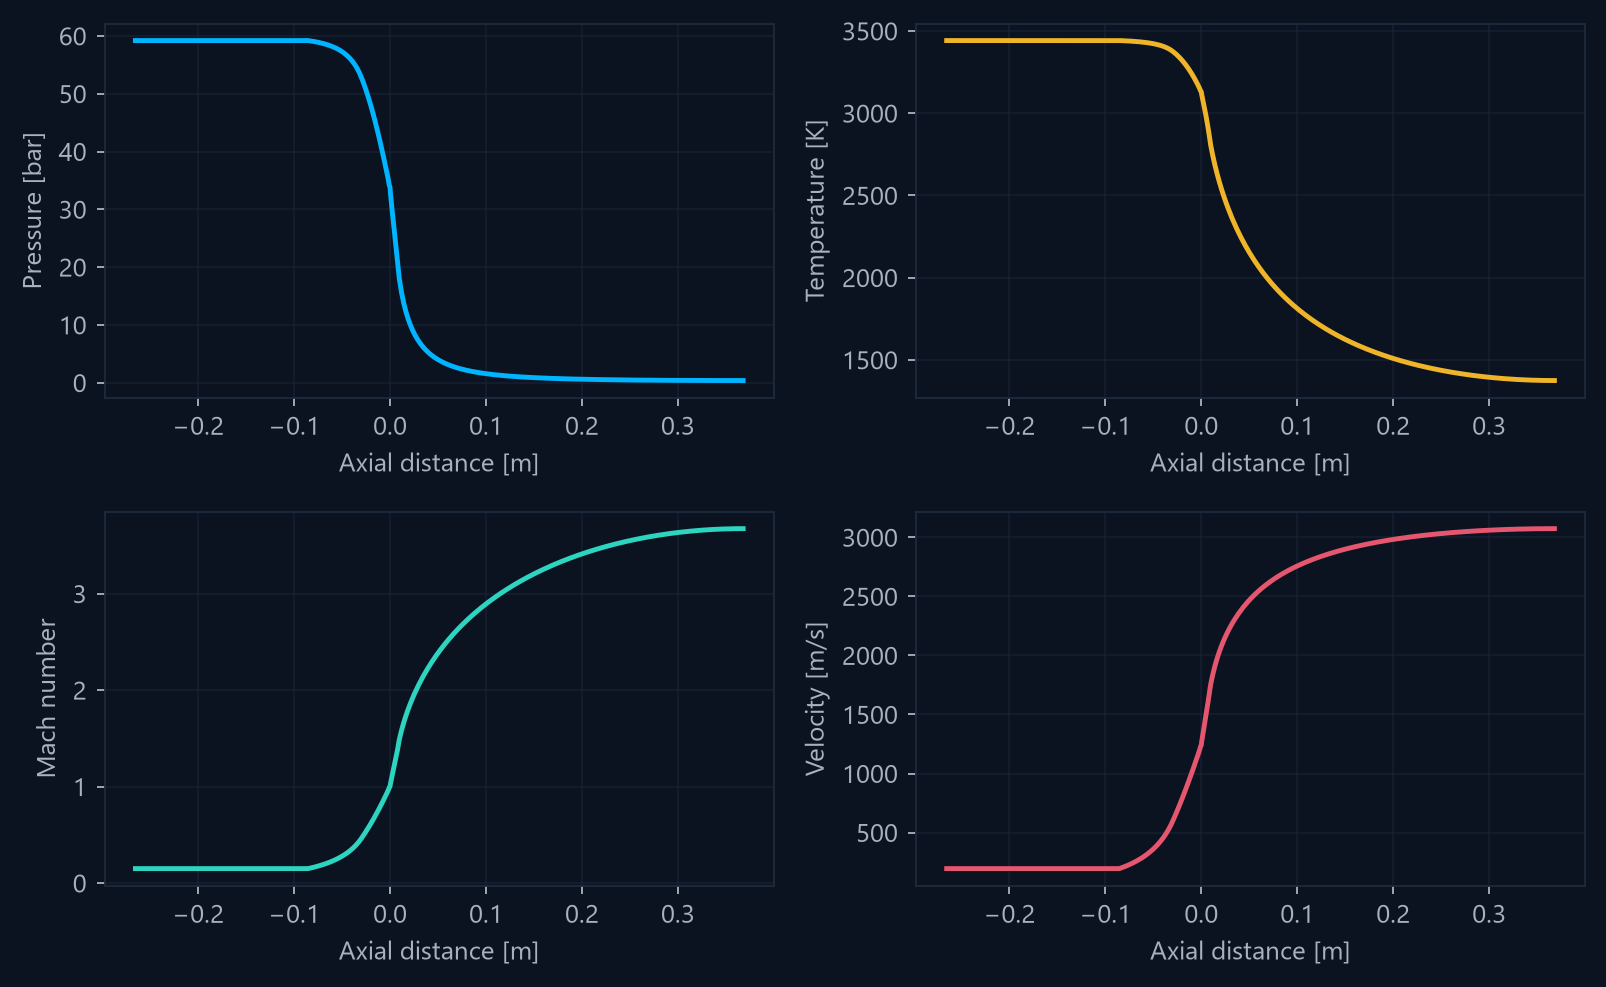
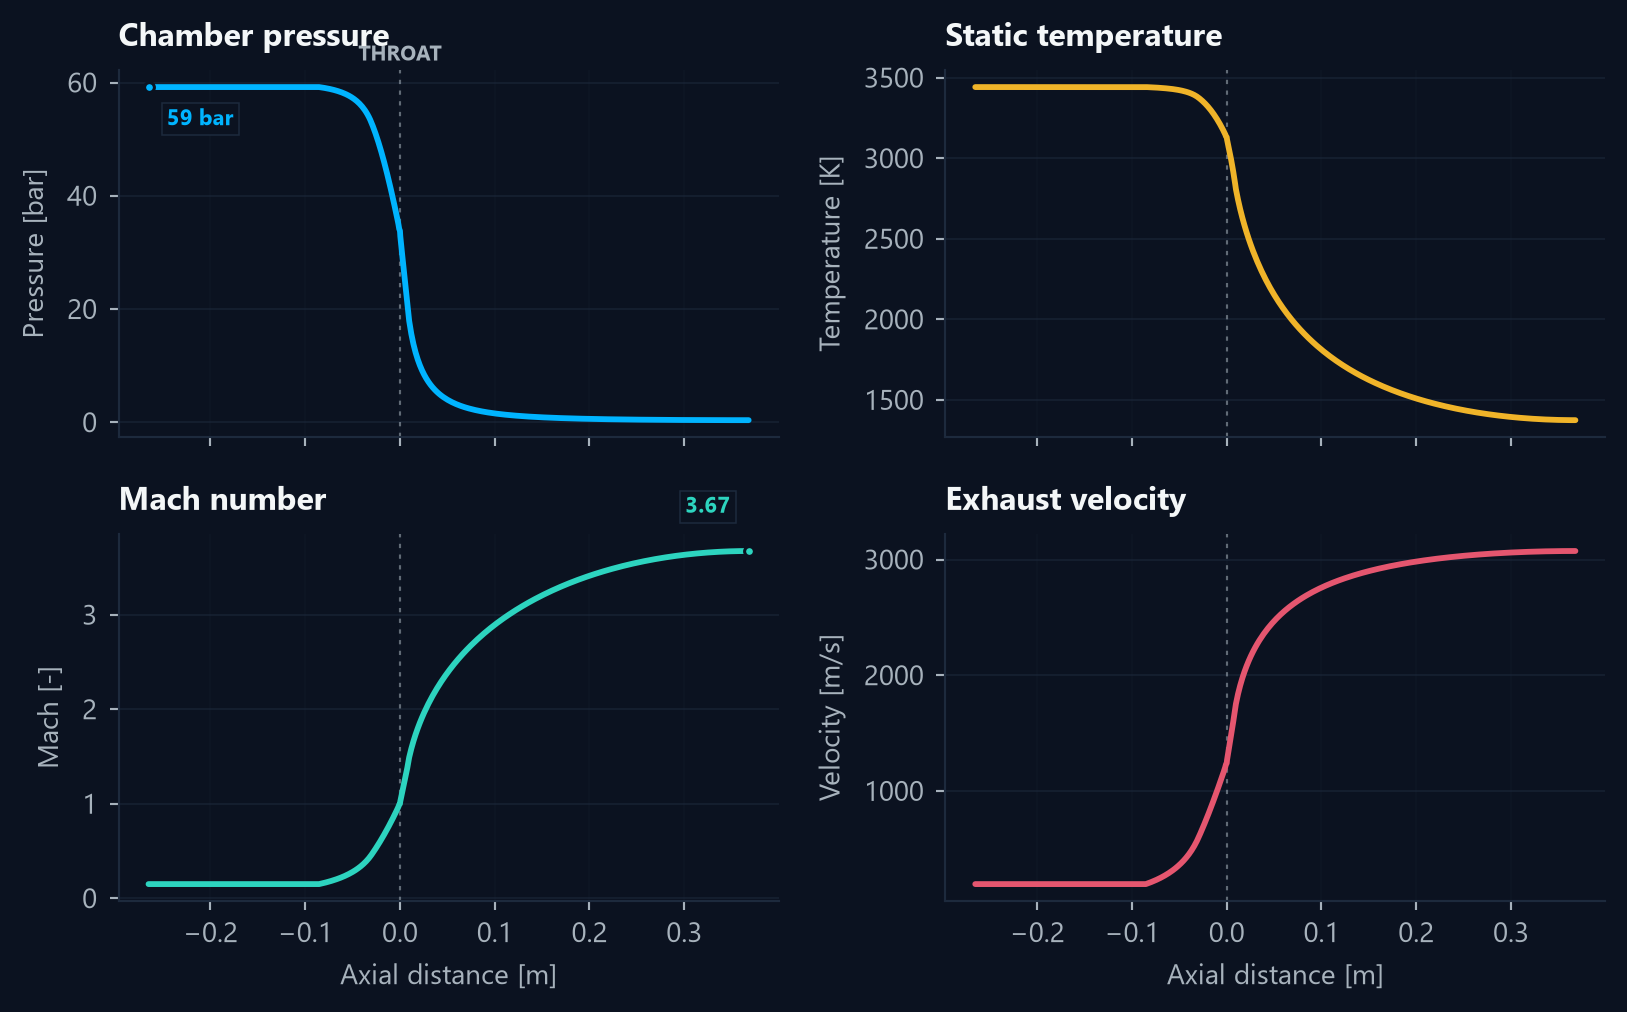
Site: give the solver figures room and refresh the charts
Regenerate all four solver figures in the new engineering-chart language and show each one at full width with its notes beside it. The old two-column grid made the axis labels unreadable at 1440px.

diff --git a/index.html b/index.html
@@ -89,7 +89,7 @@
             <span class="app-tab app-tab-more">Structural</span>
           </div>
           <div class="app-plot">
-            <img src="assets/flowfield.png" alt="Mach number through the example thrust chamber, from subsonic in the chamber to Mach 3.67 at the exit." width="1106" height="613">
+            <img src="assets/flowfield.png" alt="Mach number through the example thrust chamber, from subsonic in the chamber to Mach 3.67 at the exit." width="1630" height="1017">
           </div>
           <div class="app-foot">
             <span>Example engine</span>
@@ -159,7 +159,7 @@
 
       <div class="plot-grid">
         <figure class="plot-card" data-reveal>
-          <div class="plot"><img src="assets/flowfield.png" alt="Nozzle cross-section shaded by Mach number, from the chamber through the throat to the exit." width="1106" height="613" loading="lazy" decoding="async"></div>
+          <div class="plot"><img src="assets/flowfield.png" alt="Nozzle cross-section shaded by Mach number, from the chamber through the throat to the exit." width="1630" height="1017" loading="lazy" decoding="async"></div>
           <figcaption>
             <h3>Nozzle flowfield</h3>
             <p>Mach number through the example engine. Chamber, throat and exit are marked. The supersonic contour is a Rao parabolic bell, not a cartoon nozzle.</p>
@@ -172,7 +172,7 @@
         </figure>
 
         <figure class="plot-card" data-reveal>
-          <div class="plot"><img src="assets/gasdynamics.png" alt="Pressure, temperature, Mach number and velocity along the chamber axis." width="1606" height="987" loading="lazy" decoding="async"></div>
+          <div class="plot"><img src="assets/gasdynamics.png" alt="Pressure, temperature, Mach number and velocity along the chamber axis." width="1627" height="1012" loading="lazy" decoding="async"></div>
           <figcaption>
             <h3>Gas dynamics</h3>
             <p>Pressure, temperature, Mach and velocity along the axis, from a two-branch area–Mach solver with self-consistent variable γ.</p>
@@ -185,7 +185,7 @@
         </figure>
 
         <figure class="plot-card" data-reveal>
-          <div class="plot"><img src="assets/thermal.png" alt="Heat flux and hot-wall temperature distributions along the chamber axis." width="1605" height="679" loading="lazy" decoding="async"></div>
+          <div class="plot"><img src="assets/thermal.png" alt="Heat flux and hot-wall temperature distributions along the chamber axis." width="1628" height="1012" loading="lazy" decoding="async"></div>
           <figcaption>
             <h3>Heat flux and wall temperature</h3>
             <p>Bartz on real gas properties, Gnielinski with roughness-aware friction, and Sieder–Tate at the coolant-side wall. Channel lands are solved as fins.</p>
@@ -198,7 +198,7 @@
         </figure>
 
         <figure class="plot-card" data-reveal>
-          <div class="plot"><img src="assets/structural.png" alt="von Mises stress and safety factor along the chamber axis." width="1607" height="680" loading="lazy" decoding="async"></div>
+          <div class="plot"><img src="assets/structural.png" alt="von Mises stress and safety factor along the chamber axis." width="1627" height="1012" loading="lazy" decoding="async"></div>
           <figcaption>
             <h3>Structural margins</h3>
             <p>von Mises stress and safety factor along the example engine. The liner is a thin wall spanning the cooling-channel lands, loaded by pressure and the through-thickness gradient.</p>

diff --git a/style.css b/style.css
@@ -441,10 +441,16 @@ p { max-width: 70ch; }
 .capabilities .section-head { max-width: 860px; }
 .plot-grid {
   display: grid;
-  grid-template-columns: repeat(2, minmax(0, 1fr));
-  gap: 56px 48px;
+  grid-template-columns: 1fr;
+  gap: 64px;
 }
-.plot-card { min-width: 0; }
+.plot-card {
+  display: grid;
+  grid-template-columns: minmax(0, 2fr) minmax(280px, 1fr);
+  gap: 40px;
+  align-items: start;
+  min-width: 0;
+}
 .plot {
   background: var(--dark);
   aspect-ratio: 16 / 10;
@@ -454,8 +460,8 @@ p { max-width: 70ch; }
   overflow: hidden;
 }
 .plot img { width: 100%; height: auto; transition: transform .5s var(--ease); }
-.plot-card:hover .plot img { transform: scale(1.015); }
-.plot-card figcaption { padding-top: 18px; }
+.plot-card:hover .plot img { transform: scale(1.012); }
+.plot-card figcaption { padding-top: 2px; }
 .plot-card figcaption p {
   margin-top: 8px;
   font-size: 16px;
@@ -1045,6 +1051,8 @@ p { max-width: 70ch; }
   .split .section-head { margin-bottom: 8px; }
   .section-head.wide { margin-bottom: 32px; }
   .plot-grid { grid-template-columns: 1fr; gap: 44px; }
+  .plot-card { grid-template-columns: 1fr; gap: 18px; }
+  .plot-card figcaption { padding-top: 0; }
   .after-buy ol { grid-template-columns: 1fr; gap: 20px; }
   .close { padding: 88px 0 80px; }
   .close-facts { margin-top: 48px; gap: 24px; }
